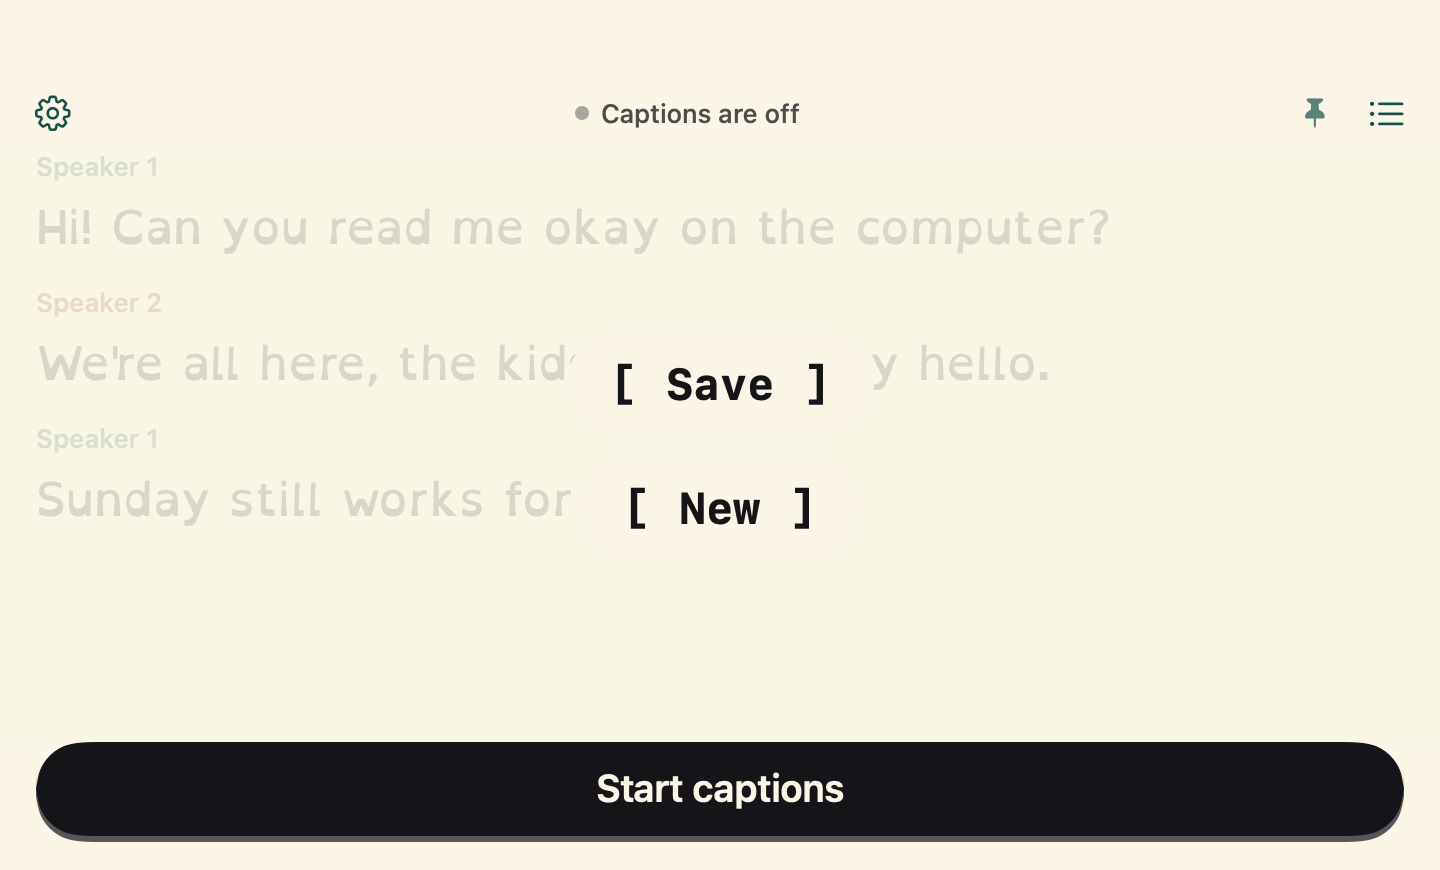
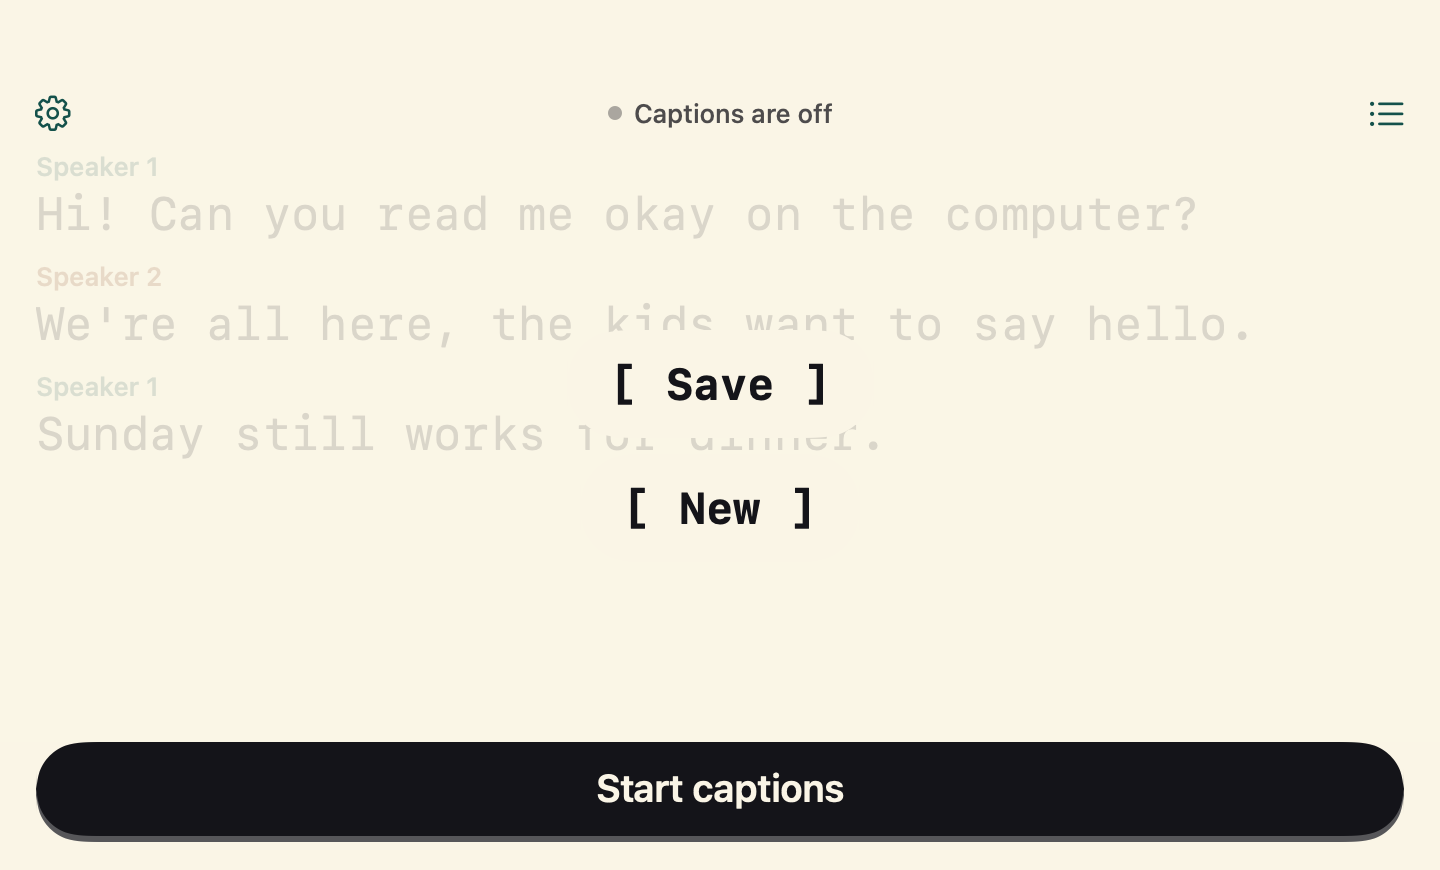
Mac pop-up: no pin button; the window always stays on top, ⌘H hides it (#172)
Owner, 2026-10-28 after the hand test: "still no idea what the pin icon is or functionality so if it is safe, remove
it". Safe: it only switched staying-on-top off, and ⌘H already hides the window (re-checked: 1 window, 0 after ⌘H,
1 when back). The top bar is now the iPhone's: gear left, saved list right.

Owner's hand test of this branch: long click → [ Save ] / [ New ], right-click menu, gear and ⌘, → Settings, list
icon → Saved: all worked.

Refs #172

diff --git a/Apps/Mac/Sources/CaptionMacApp.swift b/Apps/Mac/Sources/CaptionMacApp.swift
@@ -38,7 +38,7 @@ struct CaptionMacApp: App {
 }
 
 /// The live pop-up (#172): the model's captions in `CallPopupView`, kept above other windows (a full-screen FaceTime
-/// call included) while pinned, and captioning from the moment it opens, as "Captions start when your call does" says.
+/// call included; there's no pin to switch that off, owner 2026-10-28, ⌘H hides it), and captioning from the moment it opens, as "Captions start when your call does" says.
 struct CallPopupWindow: View {
     @ObservedObject var model: CaptionMacModel
     @State private var window: NSWindow?
@@ -60,8 +60,7 @@ struct CallPopupWindow: View {
         .frame(minWidth: 360, minHeight: 300)
         .background(model.style.background.color)
         .background(WindowFinder(window: $window))
-        .onChange(of: window) { _, _ in applyPin() }
-        .onChange(of: model.pinned) { _, _ in applyPin() }
+        .onChange(of: window) { _, _ in keepOnTop() }
         .onAppear {
             if MarvinScene.isOn { MarvinScene.run(model) } else if !CallAudioSelfTest.isRequested { model.start() }
         }
@@ -87,8 +86,7 @@ struct CallPopupWindow: View {
             onSave: { withAnimation(Fluid.saveMorph(reduceMotion)) { model.save() } },
             onNew: { withAnimation(veilAnimation) { model.requestNew() } },
             captionsOverlay: AnyView(pauseVeil),
-            roomLevelDBFS: model.roomLevelDBFS,
-            pinned: $model.pinned
+            roomLevelDBFS: model.roomLevelDBFS
         )
     }
 
@@ -170,10 +168,10 @@ struct CallPopupWindow: View {
         }
     }
 
-    private func applyPin() {
+    private func keepOnTop() {
         guard let window else { return }
-        window.level = model.pinned ? .floating : .normal
-        window.collectionBehavior = model.pinned ? [.canJoinAllSpaces, .fullScreenAuxiliary] : []
+        window.level = .floating
+        window.collectionBehavior = [.canJoinAllSpaces, .fullScreenAuxiliary]
         window.isMovableByWindowBackground = true
     }
 }

diff --git a/Apps/Mac/Sources/CallPopupView.swift b/Apps/Mac/Sources/CallPopupView.swift
@@ -44,7 +44,6 @@ struct CallPopupView: View {
     var captionsOverlay: AnyView? = nil
     /// The room's loudness for the Listening light (#180): red, brighter while people talk.
     var roomLevelDBFS: Double? = nil
-    @Binding var pinned: Bool
 
     private var speakerColors: [RGBA] {
         let colors = style.preset?.speakers ?? SpeakerPalette.colors(on: style.background, text: style.text)
@@ -110,16 +109,10 @@ struct CallPopupView: View {
                     .foregroundStyle(style.text.color.opacity(0.75))
             }
             Spacer()
-            Button { pinned.toggle() } label: {
-                Image(systemName: pinned ? "pin.fill" : "pin").font(.system(size: 13)).foregroundStyle(style.gear.color.opacity(0.7))
-            }
-            .buttonStyle(PressableIconStyle(tint: style.gear.color))
-            .help(pinned ? "Stays on top of other windows" : "Doesn't stay on top")
             Button(action: onSaved) {
                 Image(systemName: "list.bullet").font(.system(size: 17, weight: .regular)).foregroundStyle(style.gear.color)
             }
             .buttonStyle(PressableIconStyle(tint: style.gear.color))
-            .padding(.leading, 10)
             .help(String(localized: "Saved conversations"))
             .accessibilityLabel(String(localized: "Saved conversations"))
         }

diff --git a/Apps/Mac/Sources/CallPopupMockup.swift b/Apps/Mac/Sources/CallPopupMockup.swift
@@ -29,8 +29,7 @@ struct CallPopupMockup: View {
             status: CallPopupView.Status(state, hasLines: variant == .auto),
             style: style,
             buttonTitle: PrimaryControl.for(state).title,
-            roomLevelDBFS: variant == .auto ? -28 : -60,   // someone talking; a quiet room
-            pinned: .constant(true)
+            roomLevelDBFS: variant == .auto ? -28 : -60   // someone talking; a quiet room
         )
         .frame(width: 440)
         .frame(height: variant == .auto ? 420 : nil)

diff --git a/Apps/Mac/Sources/CaptionMacModel.swift b/Apps/Mac/Sources/CaptionMacModel.swift
@@ -42,8 +42,6 @@ final class CaptionMacModel: ObservableObject {
         didSet { if !MarvinScene.isOn { CaptionStyleStore().save(style) } }
     }
     @Published var speakerNames = SpeakerNames()
-    /// The pop-up stays above other windows (#172).
-    @Published var pinned = true
     /// How loud the room is, for the Listening light (#180); nil when not listening.
     @Published var roomLevelDBFS: Double?
 
